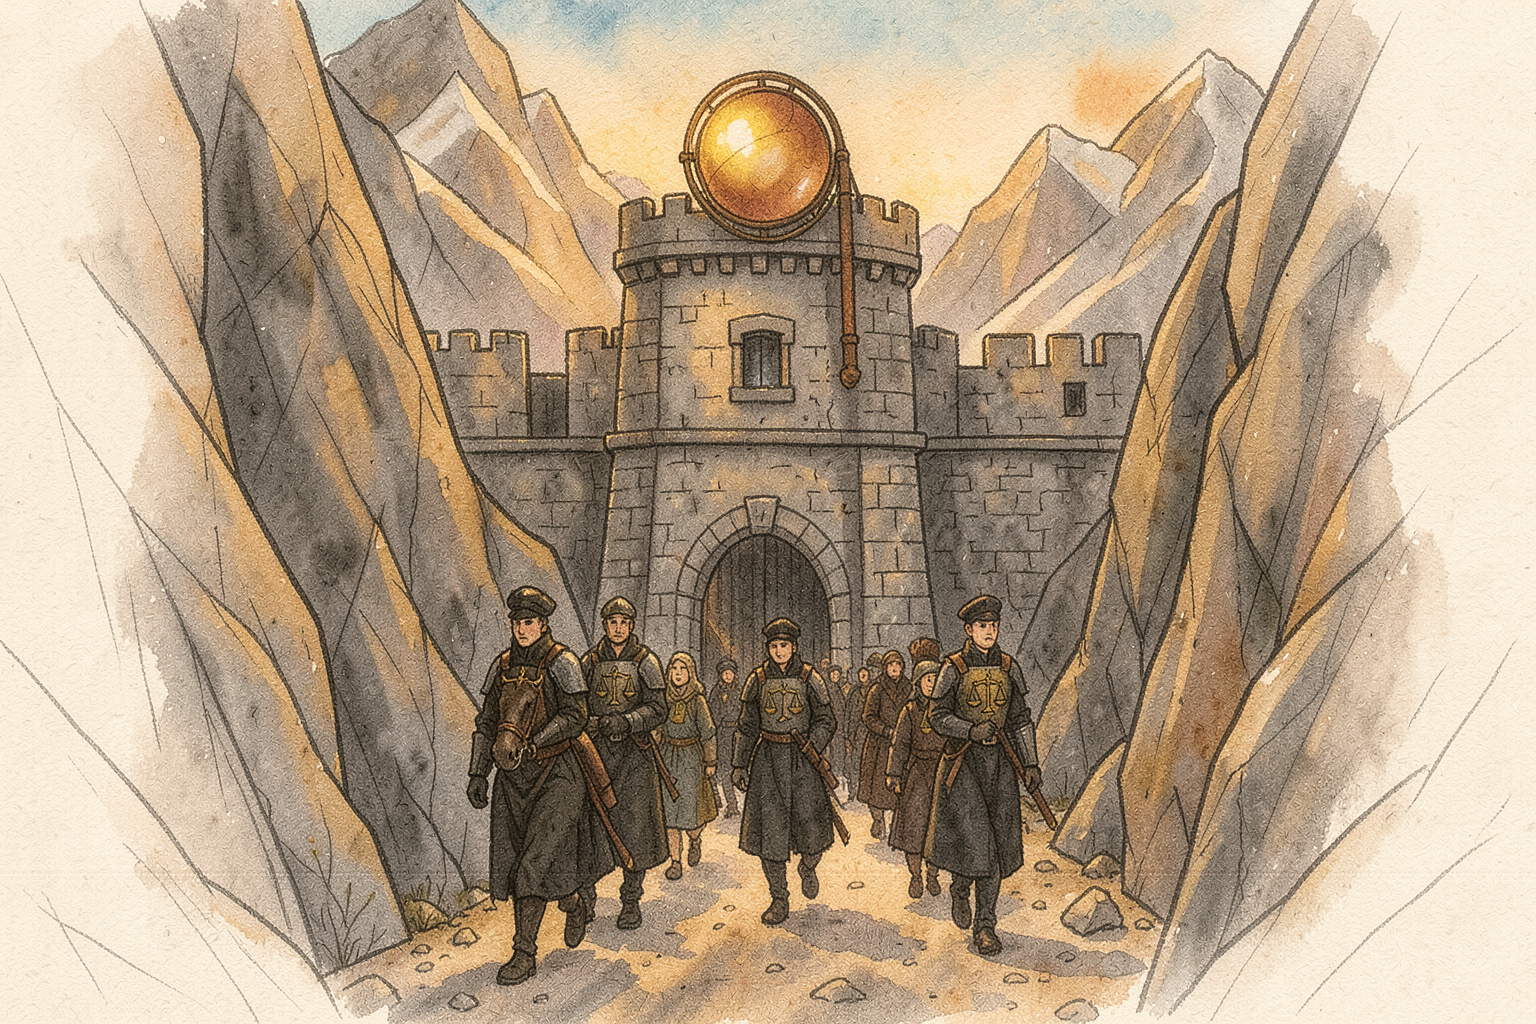
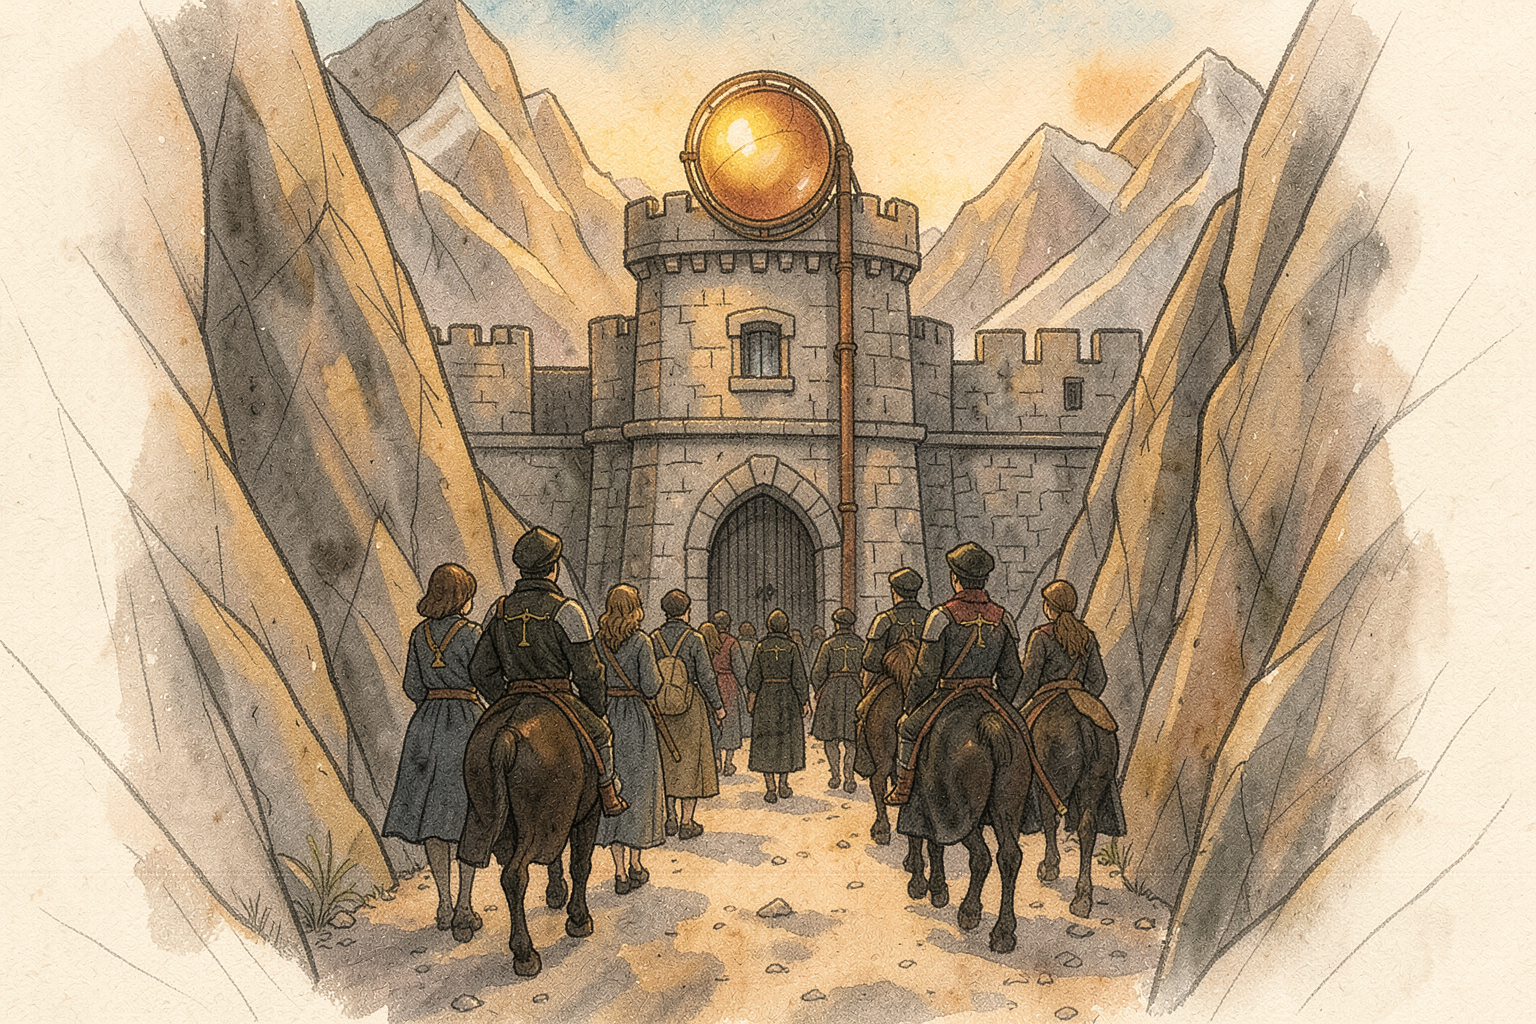
Bildprüfung: Perle 6 neu erzeugt

diff --git a/docs/art/szenen/perle-6/README.md b/docs/art/szenen/perle-6/README.md
@@ -146,3 +146,20 @@ Alle mit `tools/erzeuge-szene.ps1`, FLUX.2 klein 4B, je 6 Seeds. Übersicht: `ue
 | `szene-ruf-gross-erde` / `-feuer` / `-wasser` / `-wind` | 3 / 2 / 3 / 3 | – |
 | `entdeckung-vardholm-morgen` | 2 | – |
 | `tagebuch-perle-6` | 5 | Buch auf Tisch; unleserliche Notizen |
+
+## Bildprüfung 19.10.2026 – umgesetzt am 20.10.2026 (lokale Sitzung)
+
+| Bild | Ergebnis |
+|---|---|
+| `entdeckung-spaltstrasse-vardholm` | neu, Seed 2: Zug von hinten zur Festung, Söldner auf ganzen Pferden, nichts verschmolzen |
+| `szene-funken-frei` | behalten: in allen 6 Seeds liegen die Kugeln heil in den Körben, nur Funken am Boden |
+| `szene-modell-des-walls` | behalten: in allen 6 Seeds deckt die Glocke das ganze Modell, und die Zettel tragen Schein-Schrift |
+| `szene-ruf-gross-erde` | neu, Seed 4: Menge mit erhobenen Händen, schwebende Felsbrocken, braunes Licht. Weiter etwas Dunst im Hof |
+| `szene-ruf-gross-wasser` | neu, Seed 6: Menge mit Lichtern, Welle läuft die Schlucht hinauf |
+| `szene-ruf-gross-wind` | neu, Seed 4: Menge mit Plaketten, Wind als helle Linien (wirkt stellenweise noch schleierartig) |
+| `szene-ruf-gross-feuer` | neu, Seed 4: Menschen aller Altersgruppen, Plaketten mit Waage am Hals |
+| `szene-mauer-vardholm` | neu, Seed 2: steiler Blick die Mauer hinauf zur Zinne |
+| `szene-schweigen-im-spalt` | behalten (Seed 11 vom 19.10.): neue Seeds zeigen den Hof statt des Blicks die Schlucht entlang, Grenze ebenfalls unklar |
+| `entdeckung-vardholm-morgen` | neu, Seed 5: Feuer und Töpfe am Boden, Leute ohne Helm. Die Bronzeplatten sind weiter nicht leer |
+| `szene-festmahl-vardholm` | neu, Seed 5: alte Frau mit weißem Haar und Fläschchengürtel neben dem Gnom (Ambra) |
+| `szene-yrsas-karren` | neu, Seed 4: Yrsa auf dem Bock, Drahtkörbe, zwei Pferde angespannt |
